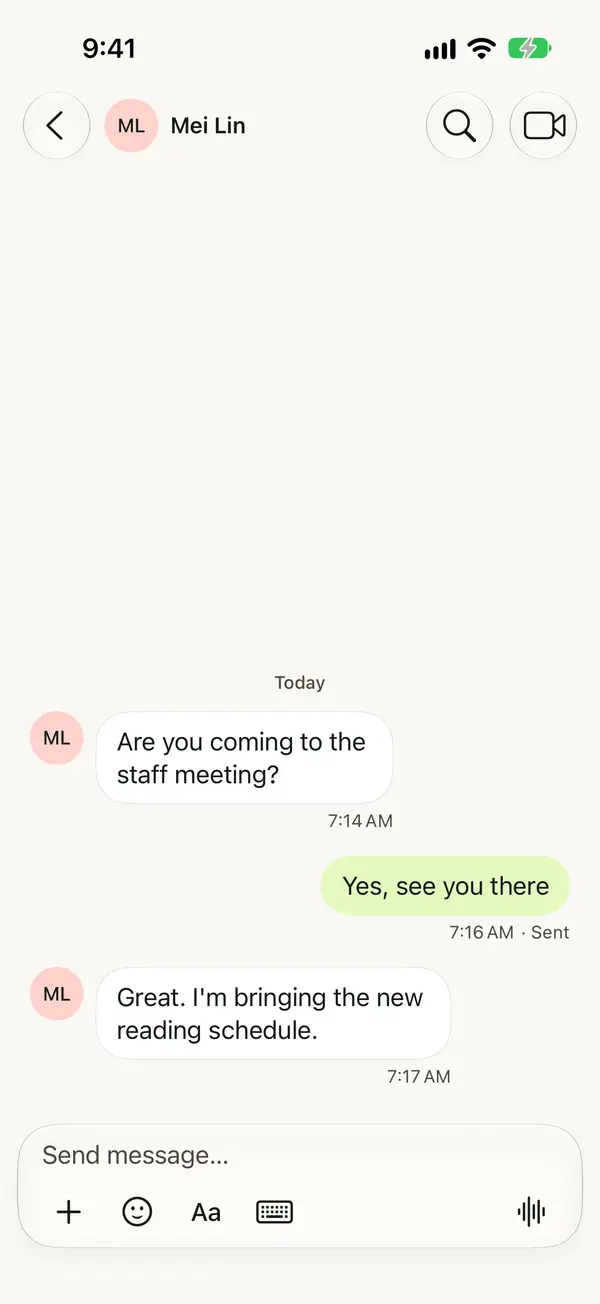
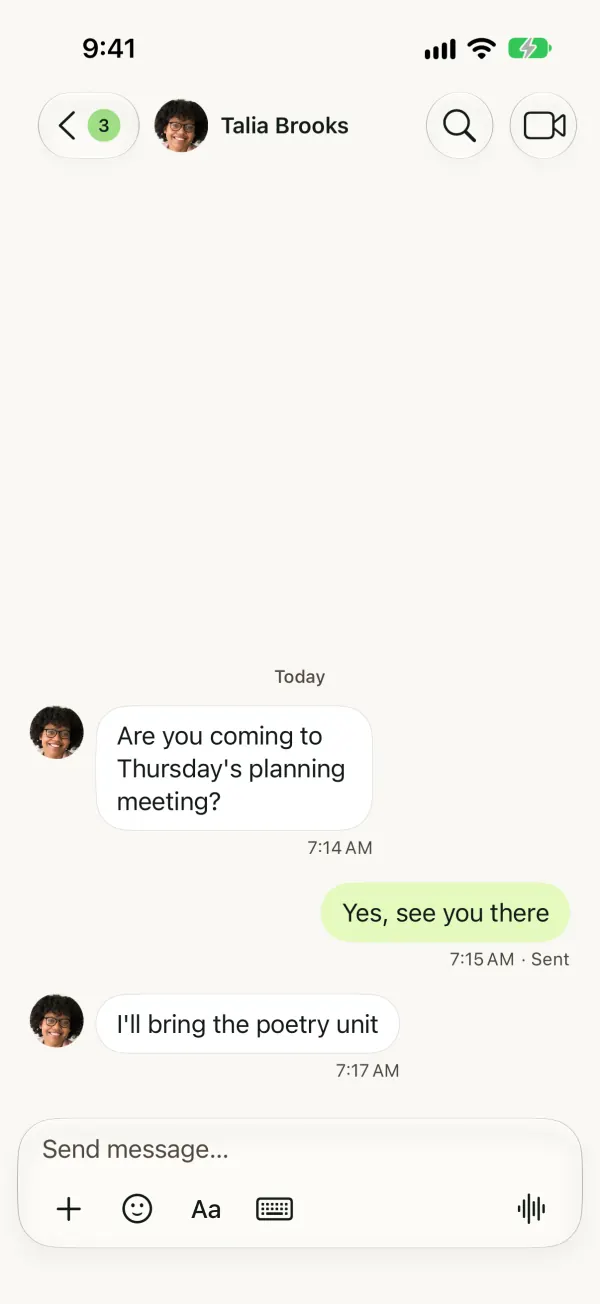
feat(site): the new cast in the link demo
Talia Brooks, Luis Ortega, Adaeze Nwosu, Kofi Mensah in the app's debug-only site demo; every link state re-shot, hotspots re-measured. The two board members' portraits are added under design/people.

Brief: LIME-347

diff --git a/ios/Lime/App/ConversationStore+SiteDemo.swift b/ios/Lime/App/ConversationStore+SiteDemo.swift
@@ -2,7 +2,7 @@
 import Foundation
 import UIKit
 
-/// Demo mode (the website's screenshots, LIME-286r): a believable cast and six chats, with profile photos for about half of them.
+/// Demo mode (the website's screenshots, LIME-286r, 347): an invented cast (Talia Brooks, Luis Ortega, Adaeze Nwosu, Kofi Mensah) and six chats, with profile photos for some of them.
 /// The photos are read from a folder named by `-lime-demo-avatars <dir>` (`<dir>/<user id>.jpg`); the rest keep their initials.
 extension ConversationStore {
     func demoSiteLink(screen: String) {
@@ -11,38 +11,38 @@ extension ConversationStore {
         meProvider = { maya }   // "MO", not "TT", on the profile button
         let args = ProcessInfo.processInfo.arguments
         if let i = args.firstIndex(of: "-lime-demo-avatars"), i + 1 < args.count {
-            for id in ["mei", "lee", "priya.nair"] {
+            for id in ["talia", "luis", "kofi", "okome", "calton"] {
                 AvatarCache.shared.set(FileManager.default.contents(atPath: args[i + 1] + "/" + id + ".jpg"), for: id)
             }
         }
-        let mei = Person(id: "mei", name: "Mei Lin"), sam = Person(id: "sam", name: "Sam Park"), priya = Person(id: "priya.nair", name: "Priya Nair"), lee = Person(id: "lee", name: "Lee Wong")
+        let talia = Person(id: "talia", name: "Talia Brooks"), luis = Person(id: "luis", name: "Luis Ortega"), adaeze = Person(id: "adaeze", name: "Adaeze Nwosu"), kofi = Person(id: "kofi", name: "Kofi Mensah")
         func mine(_ id: String, _ text: String, _ ago: Double, _ state: DeliveryState = .sent) -> Message { Message(id: id, senderID: nil, text: text, date: now.addingTimeInterval(-ago), state: state) }
         func theirs(_ id: String, _ who: String, _ text: String, _ ago: Double) -> Message { Message(id: id, senderID: who, text: text, date: now.addingTimeInterval(-ago)) }
-        var meiMessages = [
-            theirs("m1", "mei", "Are you coming to the staff meeting?", 3_000),
+        var taliaMessages = [
+            theirs("m1", "talia", "Are you coming to Thursday's planning meeting?", 3_000),
             mine("m2", "Yes, see you there", 2_900),
-            theirs("m3", "mei", "Great. I'm bringing the new reading schedule.", 2_800),
+            theirs("m3", "talia", "I'll bring the poetry unit", 2_800),
         ]
         if screen.hasPrefix("site-offline") {
             let state: DeliveryState = screen.hasSuffix("waiting") ? .waiting : screen.hasSuffix("passed") ? .passed : screen.hasSuffix("internet") ? .offline : .sent
-            meiMessages.append(mine("m4", "Running late: start without me. Notes are in the shared folder.", 20, state))
+            taliaMessages.append(mine("m4", "Running late: start without me. Notes are in the shared folder.", 20, state))
         }
         conversations = [
-            Conversation(id: "dm:mei", title: mei.name, members: [mei], messages: meiMessages),
-            Conversation(id: "dm:sam", title: sam.name, members: [sam], messages: [theirs("s1", "sam", "The week 4 plan is in the folder", 93_000)], unread: 1),
-            Conversation(id: "dm:priya.nair", title: priya.name, members: [priya], messages: [theirs("p1", "priya.nair", "Thank you! The reading circles worked.", 170_000)]),
-            Conversation(id: "dm:lee", title: lee.name, members: [lee], messages: [theirs("l1", "lee", "I'll send the lesson plan in the morning.", 350_000)]),
+            Conversation(id: "dm:talia", title: talia.name, members: [talia], messages: taliaMessages),
+            Conversation(id: "dm:luis", title: luis.name, members: [luis], messages: [theirs("s1", "luis", "The Local Government Lab handout is in the folder", 93_000)], unread: 1),
+            Conversation(id: "dm:adaeze", title: adaeze.name, members: [adaeze], messages: [theirs("p1", "adaeze", "Thank you! The lab went well.", 170_000)]),
+            Conversation(id: "dm:kofi", title: kofi.name, members: [kofi], messages: [theirs("l1", "kofi", "I'll send the flyer for literacy night in the morning.", 350_000)]),
         ]
-        let team = demoMakeGroup(name: "Grade 4 Team", emoji: "🍎", memberIDs: ["mei", "lee", "sam"], owner: true)
-        demoAddMessages(to: team, [("lee", "Can we plan the field trip on Friday?"), ("sam", "I can bring the permission forms"), ("mei", "I'll book the bus. Who wants to take the first aid kit?"), ("lee", "Me! I also have the map.")])
+        let team = demoMakeGroup(name: "8th Grade Team", emoji: "📚", memberIDs: ["talia", "luis", "adaeze"], owner: true)
+        demoAddMessages(to: team, [("luis", "Can we plan the field trip on Friday?"), ("adaeze", "I can bring the permission forms"), ("talia", "I'll book the bus. Who wants to take the first aid kit?"), ("luis", "Me! I also have the map.")])
         if let t = conversations.firstIndex(where: { $0.id == team }) {
-            conversations[t].messages[conversations[t].messages.count - 2].reactions = [ReactionChip(emoji: "👍", count: 3, mine: false, people: ["Lee Wong", "Sam Park", "Mei Lin"])]
+            conversations[t].messages[conversations[t].messages.count - 2].reactions = [ReactionChip(emoji: "👍", count: 3, mine: false, people: ["Luis Ortega", "Adaeze Nwosu", "Talia Brooks"])]
             conversations[t].unread = 2
         }
-        let staff = demoMakeGroup(name: "Staff room", emoji: "🏫", memberIDs: ["priya.nair", "sam"], owner: false)
-        demoAddMessages(to: staff, [("priya.nair", "The photocopier is fixed.")])
-        // Newest chat first, as the list orders them: the team, Mei, then the rest by age.
-        let order = [team, "dm:mei", "dm:sam", "dm:priya.nair", "dm:lee", staff]
+        let staff = demoMakeGroup(name: "Staff room", emoji: "🏫", memberIDs: ["kofi", "adaeze"], owner: false)
+        demoAddMessages(to: staff, [("kofi", "The photocopier is fixed.")])
+        // Newest chat first, as the list orders them: the team, Talia, then the rest by age.
+        let order = [team, "dm:talia", "dm:luis", "dm:adaeze", "dm:kofi", staff]
         conversations.sort { (order.firstIndex(of: $0.id) ?? 99) < (order.firstIndex(of: $1.id) ?? 99) }
         // The screens are captured at any hour; the times they show are pinned to 8:04 AM today (the message times then read 7:14 AM … Yesterday, Nov 5, Nov 3).
         if let pinned = Calendar.current.date(bySettingHour: 8, minute: 4, second: 0, of: now) {
@@ -50,7 +50,7 @@ extension ConversationStore {
             for c in conversations.indices { for m in conversations[c].messages.indices { conversations[c].messages[m].date.addTimeInterval(shift) } }
         }
         switch screen {
-        case "site-chat", "site-offline-waiting", "site-offline-passed", "site-offline-sent": path.append("dm:mei")
+        case "site-chat", "site-offline-waiting", "site-offline-passed", "site-offline-sent": path.append("dm:talia")
         case "site-group": path.append(team)
         default: break
         }

diff --git a/tools/hero-video/SiteShots.swift b/tools/hero-video/SiteShots.swift
@@ -17,10 +17,10 @@ final class SiteShots: XCTestCase {
     func testChats() {
         let a = app("site-link", extra: ["-lime-demo-autoreply", "Sending it now. Thanks for asking!"])
         snap("link-list")
-        row(a, "dm:mei"); snap("link-chat")
+        row(a, "dm:talia"); snap("link-chat")
         let field = a.textViews["composer-field"]; XCTAssertTrue(field.waitForExistence(timeout: 8)); field.tap(); sleep(1)
-        field.typeText("Can you share the fraction"); sleep(1); snap("link-typing-1")
-        field.typeText(" wall?"); sleep(1); snap("link-typing")
+        field.typeText("Can you share the poem"); sleep(1); snap("link-typing-1")
+        field.typeText(" of the week list?"); sleep(1); snap("link-typing")
         a.buttons["send-button"].tap(); sleep(1); snap("link-sent")
         sleep(3); snap("link-reply")
         let reply = a.staticTexts["Sending it now. Thanks for asking!"]; if reply.waitForExistence(timeout: 5) { reply.press(forDuration: 0.9); sleep(2); snap("link-bar"); let heart = a.buttons["react-❤"]; if heart.waitForExistence(timeout: 3) { heart.tap(); sleep(1); snap("link-reacted") } }
@@ -28,7 +28,7 @@ final class SiteShots: XCTestCase {
     func testGroup() {
         let a = app("site-link", extra: [])
         row(a, "grp:demo1"); snap("link-group")
-        let title = a.staticTexts["Grade 4 Team"].firstMatch; if title.exists { title.tap(); sleep(2); snap("link-group-info") }
+        let title = a.staticTexts["8th Grade Team"].firstMatch; if title.exists { title.tap(); sleep(2); snap("link-group-info") }
     }
     func testCall() { _ = app("site-call"); sleep(3); snap("link-call") }
     func testOffline() {
@@ -41,6 +41,12 @@ final class SiteShots: XCTestCase {
     }
     private func ids(_ a: XCUIApplication, _ n: String) { try? a.debugDescription.write(toFile: "/tmp/286r/\(n).txt", atomically: true, encoding: .utf8) }
     private func tap(_ a: XCUIApplication, _ id: String, wait: Double = 6) { let e = a.descendants(matching: .any).matching(identifier: id).firstMatch; XCTAssertTrue(e.waitForExistence(timeout: wait), id); e.tap(); sleep(2) }
+    /// Scrolls the feed until the element is on screen (the feed is lazy: a card below the fold does not exist yet), then taps it.
+    private func reveal(_ a: XCUIApplication, _ id: String) {
+        let e = a.descendants(matching: .any).matching(identifier: id).firstMatch
+        for _ in 0..<8 { if e.exists && e.isHittable { break }; a.swipeUp(); sleep(1) }
+        XCTAssertTrue(e.exists, id); e.tap(); sleep(2)
+    }
 
     private func tapLabel(_ a: XCUIApplication, _ label: String) { let e = a.buttons[label].firstMatch; if e.waitForExistence(timeout: 6) { e.tap() } else { a.staticTexts[label].firstMatch.tap() }; sleep(2) }
 
@@ -48,6 +54,7 @@ final class SiteShots: XCTestCase {
         let a = app("site-jam"); sleep(2); snap("jam-feed")
         a.swipeUp(); sleep(1); snap("jam-feed2")
         a.swipeUp(); sleep(1); snap("jam-feed3")
+        a.swipeUp(); sleep(1); snap("jam-feed4")
     }
     func testJamArticle() {
         let a = app("site-jam"); sleep(2)
@@ -57,11 +64,11 @@ final class SiteShots: XCTestCase {
     func testJamPodcasts() {
         let a = app("site-jam"); sleep(2)
         tap(a, "jam-segment-Podcasts"); snap("jam-podcasts")
-        tap(a, "jam-audio-play-site-sam-pod-audio"); sleep(1); snap("jam-podcast-playing"); ids(a, "ids-playing")
+        tap(a, "jam-audio-play-site-adaeze-pod-audio"); sleep(1); snap("jam-podcast-playing"); ids(a, "ids-playing")
     }
     func testJamSeries() {
         let a = app("site-jam"); sleep(2)
-        tap(a, "jam-card-series-site-sam-2"); snap("jam-series"); ids(a, "ids-series")
+        reveal(a, "jam-card-series-site-luis-2"); snap("jam-series"); ids(a, "ids-series")
     }
     func testJamBand() {
         let a = app("site-jam"); sleep(2)
@@ -77,6 +84,6 @@ final class SiteShots: XCTestCase {
     }
     func testJamMembers() {
         let a = app("site-jam"); sleep(2)
-        tap(a, "jam-post-site-sci-2"); snap("jam-members-post")
+        reveal(a, "jam-post-site-sci-2"); snap("jam-members-post")
     }
 }

diff --git a/ios/Lime/App/ConversationStore.swift b/ios/Lime/App/ConversationStore.swift
@@ -1191,7 +1191,7 @@ final class ConversationStore {
         case "site-jam", "site-jam-band": demoSiteJam(screen: screen ?? "site-jam")   // LIME-286r2: the website's jam phone
         case "site-call":   // LIME-286r: a four-person video call for the website
             demoSiteLink(screen: "site-link")
-            groupCalls.demoCall(people: 4, conversationID: conversations.first?.id ?? "grp:demo", cast: ["Maya Ortiz", "Mei Lin", "Lee Wong", "Sam Park"])
+            groupCalls.demoCall(people: 4, conversationID: conversations.first?.id ?? "grp:demo", cast: ["Maya Ortiz", "Talia Brooks", "Luis Ortega", "Adaeze Nwosu"])
         case let name? where name.hasPrefix("site-") && ["site-link", "site-chat", "site-group", "site-offline-waiting", "site-offline-passed", "site-offline-sent", "site-offline-internet"].contains(name): demoSiteLink(screen: name)   // LIME-286r
         case "chat-deleted-person":
             // Sam deleted his account (LIME-113c): the chat looks like any old chat; sending shows one quiet line.
